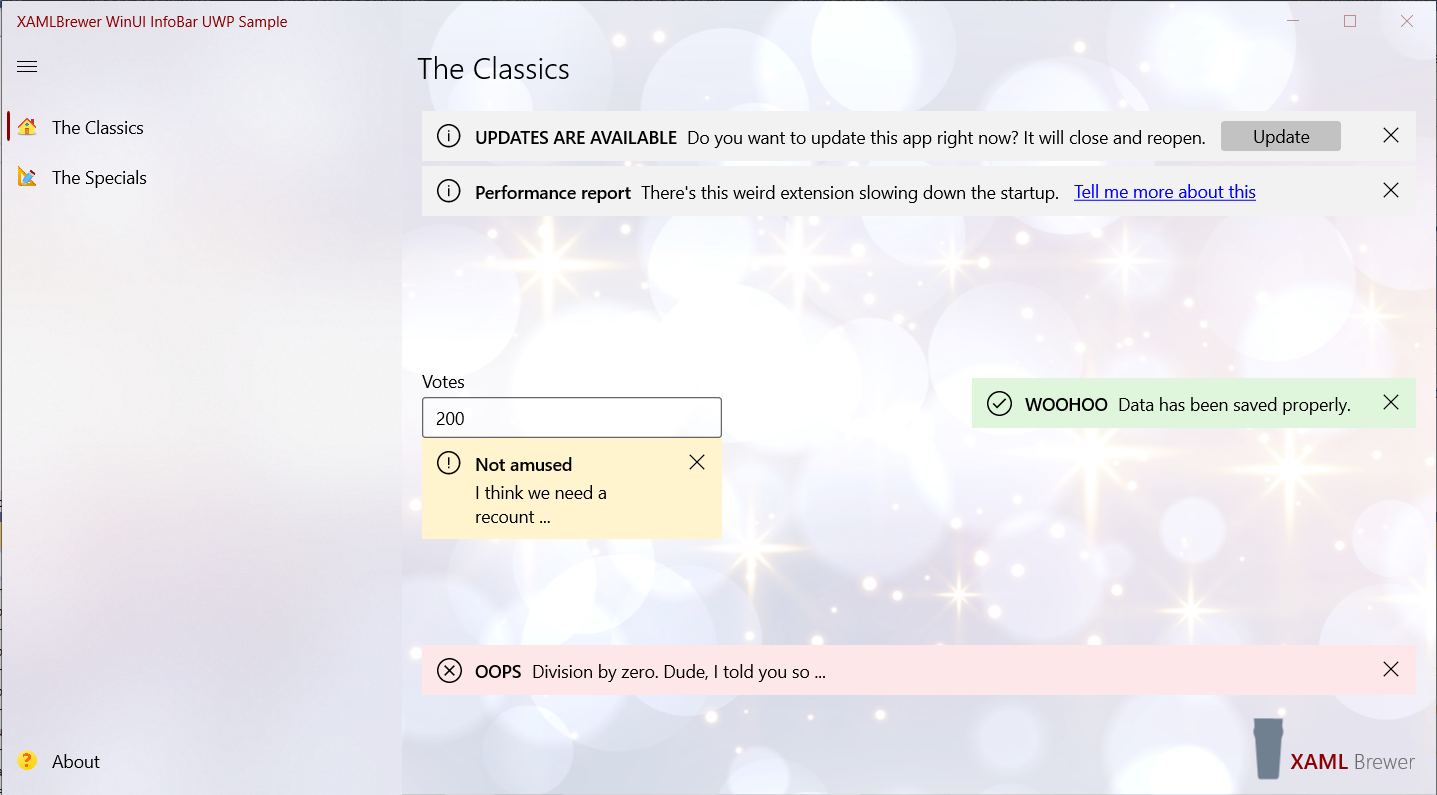
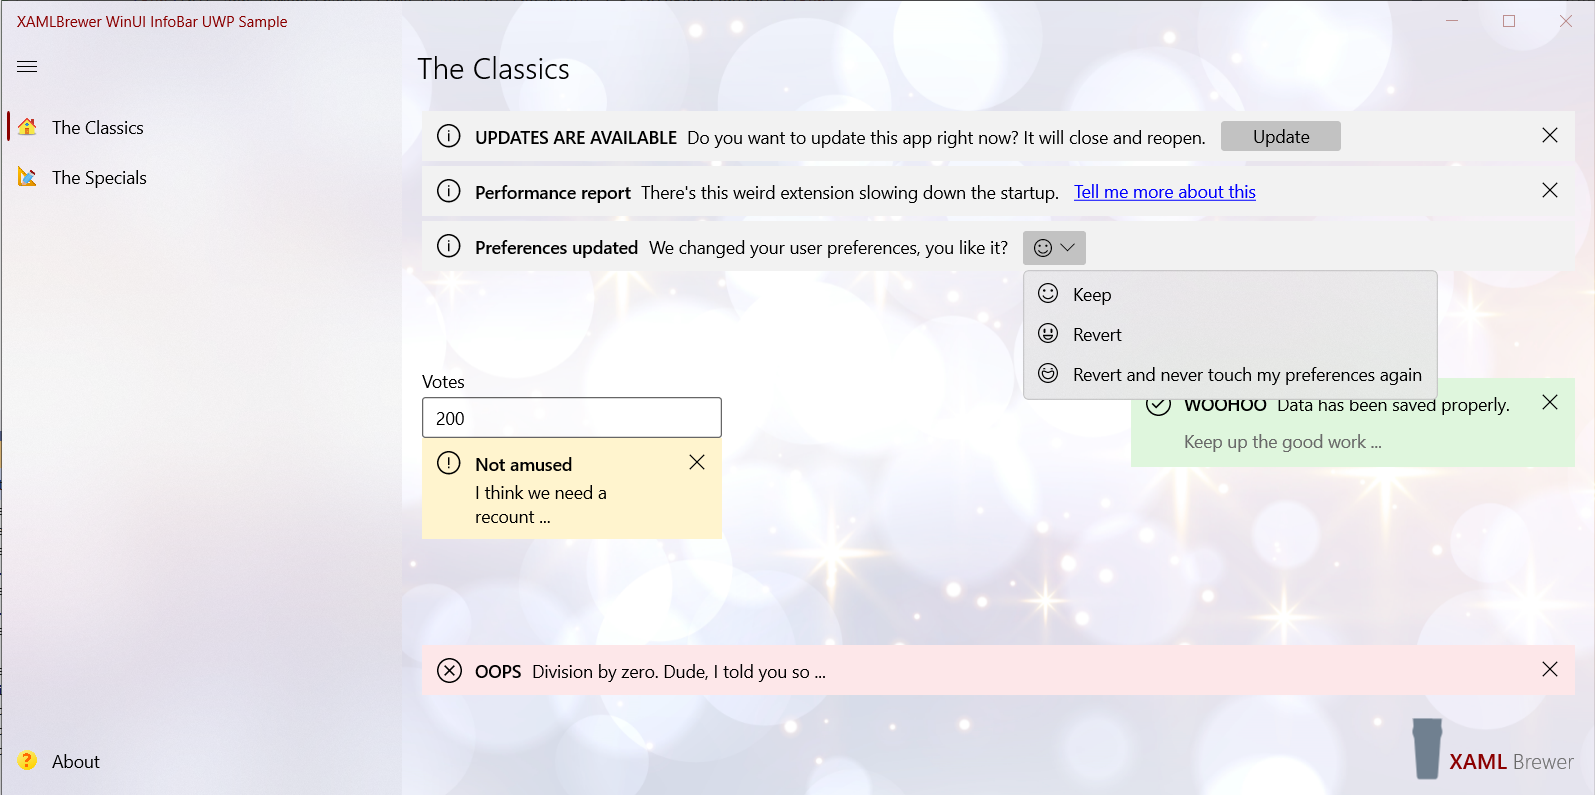
Close-via-dropdown sample. About page.

diff --git a/XamlBrewer.UWP.InfoBarSample/Views/HomePage.xaml b/XamlBrewer.UWP.InfoBarSample/Views/HomePage.xaml
@@ -35,10 +35,12 @@
             </winui:InfoBar>
 
             <!-- One that Edge and Outlook should have -->
-            <winui:InfoBar Title="Preferences updated"
+            <winui:InfoBar x:Name="PreferencesInfoBar"
+                           Title="Preferences updated"
                            Message="We changed your user preferences, you like it?"
                            Severity="Informational"
-                           IsOpen="True">
+                           IsOpen="True"
+                           IsClosable="False">
                 <winui:InfoBar.ActionButton>
                     <winui:DropDownButton>
                         <TextBlock FontFamily="Segoe MDL2 Assets"
@@ -47,14 +49,17 @@
                         <winui:DropDownButton.Flyout>
                             <MenuFlyout Placement="BottomEdgeAlignedLeft">
                                 <MenuFlyoutItem Icon="Emoji2"
-                                                Text="Keep" />
-                                <MenuFlyoutItem Text="Revert">
+                                                Text="Keep"
+                                                Click="MenuFlyoutItem_Click" />
+                                <MenuFlyoutItem Text="Revert"
+                                                Click="MenuFlyoutItem_Click">
                                     <MenuFlyoutItem.Icon>
                                         <FontIcon Glyph="&#xED54;" />
                                     </MenuFlyoutItem.Icon>
                                 </MenuFlyoutItem>
                                 <MenuFlyoutItem Icon="Emoji"
-                                                Text="Revert and never touch my preferences again" />
+                                                Text="Revert and never touch my preferences again"
+                                                Click="MenuFlyoutItem_Click" />
                             </MenuFlyout>
                         </winui:DropDownButton.Flyout>
                     </winui:DropDownButton>

diff --git a/XamlBrewer.UWP.InfoBarSample/Views/AboutPage.xaml b/XamlBrewer.UWP.InfoBarSample/Views/AboutPage.xaml
@@ -7,6 +7,15 @@
       mc:Ignorable="d"
       Background="Transparent">
     <Grid Background="Transparent">
-
+        <TextBlock>
+            <Run>This app demonstrates some usages of the WinUI 2.5 InfoBar control.</Run>
+            <LineBreak />
+            <LineBreak />
+            <Bold>Credits</Bold>
+            <LineBreak />
+            <Run Text="Background image designed by " /><Hyperlink NavigateUri="http://www.freepik.com">starline / Freepik</Hyperlink><Run>.</Run>
+            <LineBreak />
+            <Run Text="Custom template inspired by " /><Hyperlink NavigateUri="https://github.com/microsoft/microsoft-ui-xaml/issues/913">the originally proposed layout</Hyperlink><Run>.</Run>
+        </TextBlock>
     </Grid>
 </Page>

diff --git a/XamlBrewer.UWP.InfoBarSample/Views/HomePage.xaml.cs b/XamlBrewer.UWP.InfoBarSample/Views/HomePage.xaml.cs
@@ -21,5 +21,10 @@ namespace XamlBrewer.UWP.InfoBarSample.Views
 
             RootGrid.Children.Add(infoBar);
         }
+
+        private void MenuFlyoutItem_Click(object sender, Windows.UI.Xaml.RoutedEventArgs e)
+        {
+            PreferencesInfoBar.IsOpen = false;
+        }
     }
 }

diff --git a/README.md b/README.md
@@ -1,5 +1,9 @@
 # XamlBrewer.UWP.InfoBarSample
-Demonstrating the WinUI 2.5 InfoBar control in UWP
+Demonstrating the WinUI 2.5 InfoBar control in UWP:
+* Typical scenarios
+* Templating
+* Auto-closing
 
 ![Screenshot](Assets/Classics.png?raw=true)
+![Screenshot](Assets/Specials.png?raw=true)
 
